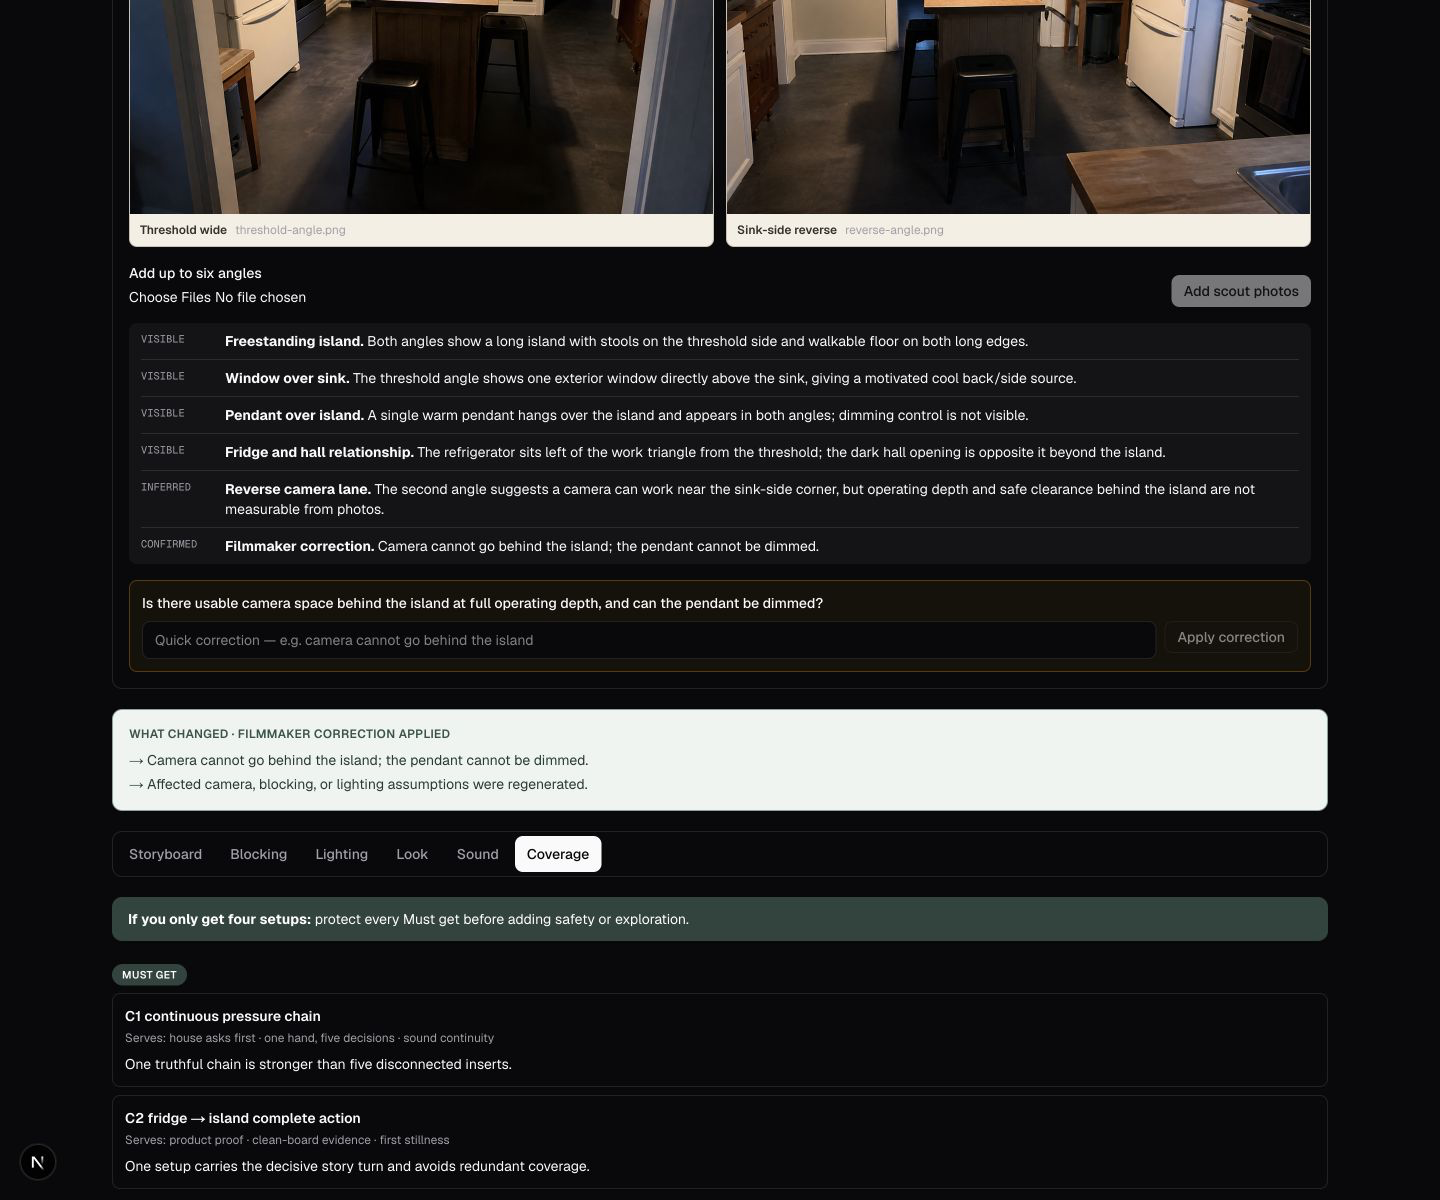
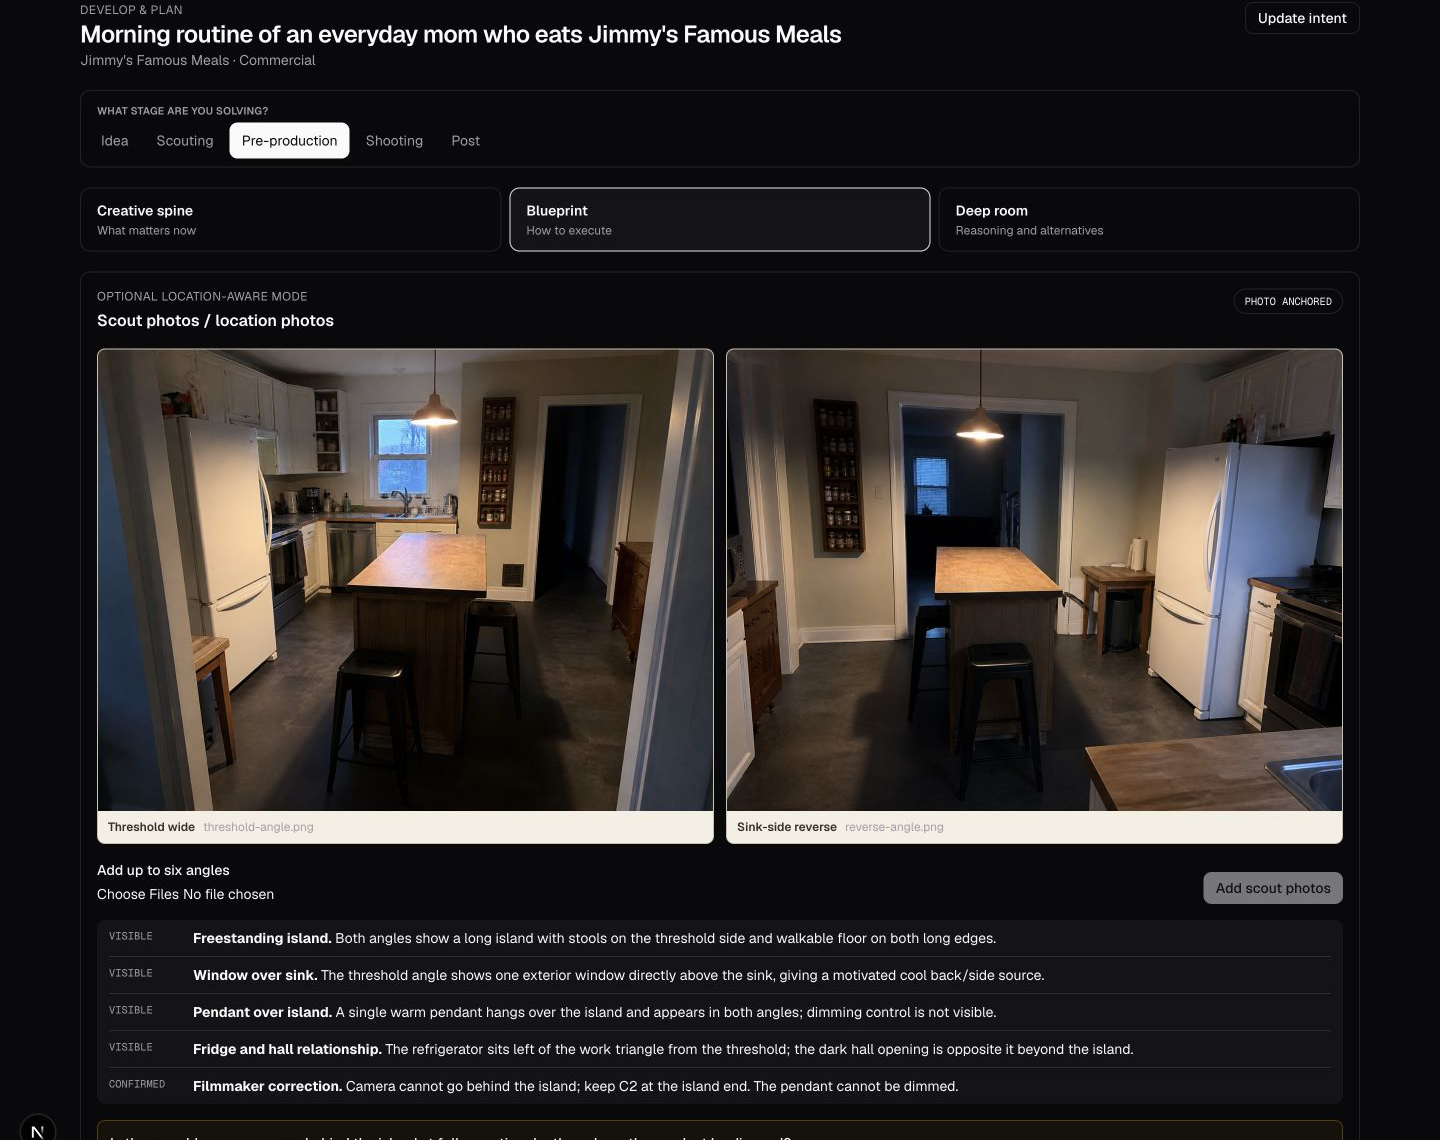
fix: address independent visual planning review

diff --git a/src/domain/creative/visual-planning.ts b/src/domain/creative/visual-planning.ts
@@ -315,37 +315,48 @@ export function isScoutKitchenCalibration(photos: readonly ScoutPhotoRef[]): boo
 }
 
 export function analyzeScoutPhotoSet(context: CreativePlanningContext): CreativePlanningContext {
-  const confirmed = context.corrections.map((correction) => ({
-    id: `confirmed_${correction.id}`,
-    state: "FILMMAKER_CONFIRMED_GEOMETRY" as const,
-    label: "Filmmaker correction",
-    detail: correction.statement,
-    evidencePhotoIds: [] as readonly string[],
-    affects: ["STORYBOARD", "BLOCKING", "LIGHTING"] as const,
-  }));
+  const replacedClaimIds = new Set(
+    context.corrections.flatMap((correction) =>
+      correction.replacesClaimId ? [correction.replacesClaimId] : [],
+    ),
+  );
+  const active = (claims: readonly SpatialClaim[]) =>
+    claims.filter((claim) => !replacedClaimIds.has(claim.id));
+  const confirmed = active(
+    context.corrections.map((correction) => ({
+      id: `confirmed_${correction.id}`,
+      state: "FILMMAKER_CONFIRMED_GEOMETRY" as const,
+      label: "Filmmaker correction",
+      detail: correction.statement,
+      evidencePhotoIds: [] as readonly string[],
+      affects: ["STORYBOARD", "BLOCKING", "LIGHTING"] as const,
+    })),
+  );
   if (!isScoutKitchenCalibration(context.scoutPhotos)) {
     return {
       ...context,
-      spatialClaims: context.scoutPhotos.length
-        ? [
-            {
-              id: "visible_scout_set_received",
-              state: "VISIBLE_FACT",
-              label: "Scout image set received",
-              detail: `${context.scoutPhotos.length} project-scoped scout ${context.scoutPhotos.length === 1 ? "image is" : "images are"} available. This deterministic pass has not interpreted physical layout, shared landmarks, dimensions, or operating clearance from their pixels.`,
-              evidencePhotoIds: context.scoutPhotos.map((photo) => photo.id),
-              affects: [] as const,
-            },
-            ...confirmed,
-          ]
-        : confirmed,
+      spatialClaims: active(
+        context.scoutPhotos.length
+          ? [
+              {
+                id: "visible_scout_set_received",
+                state: "VISIBLE_FACT",
+                label: "Scout image set received",
+                detail: `${context.scoutPhotos.length} project-scoped scout ${context.scoutPhotos.length === 1 ? "image is" : "images are"} available. This deterministic pass has not interpreted physical layout, shared landmarks, dimensions, or operating clearance from their pixels.`,
+                evidencePhotoIds: context.scoutPhotos.map((photo) => photo.id),
+                affects: [] as const,
+              },
+              ...confirmed,
+            ]
+          : confirmed,
+      ),
     };
   }
   const threshold = context.scoutPhotos.find((photo) => photo.contentHash === THRESHOLD_HASH)!;
   const reverse = context.scoutPhotos.find((photo) => photo.contentHash === REVERSE_HASH)!;
   return {
     ...context,
-    spatialClaims: [
+    spatialClaims: active([
       {
         id: "visible_island",
         state: "VISIBLE_FACT",
@@ -392,7 +403,7 @@ export function analyzeScoutPhotoSet(context: CreativePlanningContext): Creative
         affects: ["STORYBOARD", "BLOCKING"],
       },
       ...confirmed,
-    ],
+    ]),
   };
 }
 
@@ -831,8 +842,8 @@ function jimmyLighting(photoAnchored: boolean, context: CreativePlanningContext)
     title: photoAnchored ? "Use the visible window and pendant" : "Motivated source hypothesis",
     question: "Where are the meaningful sources, modifiers, and practicals?",
     zones: [
-      { id: "island", label: "ISLAND", x: 34, y: 31, width: 40, height: 27 },
-      { id: "sink_window", label: "SINK + WINDOW", x: 74, y: 7, width: 21, height: 20 },
+      { id: "island", label: "ISLAND", x: 34, y: 36, width: 40, height: 22 },
+      { id: "sink_window", label: "SINK + WINDOW", x: 74, y: 4, width: 21, height: 23 },
       { id: "fridge", label: "FRIDGE", x: 5, y: 8, width: 19, height: 26 },
     ],
     sources: [
@@ -910,6 +921,7 @@ const JIMMY_LOOK: LookPlan = {
 
 function jimmyLocation(context: CreativePlanningContext): LocationGrounding {
   const anchored = isScoutKitchenCalibration(context.scoutPhotos);
+  const hasCorrection = context.corrections.length > 0;
   return {
     mode: anchored
       ? "PHOTO_ANCHORED"
@@ -919,7 +931,9 @@ function jimmyLocation(context: CreativePlanningContext): LocationGrounding {
     photos: context.scoutPhotos,
     claims: context.spatialClaims,
     confirmationQuestion: anchored
-      ? "Is there usable camera space behind the island at full operating depth, and can the pendant be dimmed?"
+      ? hasCorrection
+        ? "Is there any remaining clearance, power, or safety constraint that would change C1, C2, or the lighting plan?"
+        : "Is there usable camera space behind the island at full operating depth, and can the pendant be dimmed?"
       : context.scoutPhotos.length
         ? "Which landmarks repeat across these angles, and which camera lanes or fixture controls can you confirm?"
         : "Can you add two location photos—one wide and one reverse—or confirm the fridge, counter, window, and camera lanes?",
@@ -1430,7 +1444,12 @@ export function evaluateVisualPlanQuality(plan: VisualPlan): VisualPlanQualityRe
     if (!plan.location.claims.some((claim) => claim.state === "VISIBLE_FACT")) {
       findings.push("Photo-anchored mode identifies no visible location facts.");
     }
-    if (!plan.location.claims.some((claim) => claim.state === "INFERRED_GEOMETRY")) {
+    if (
+      !plan.location.claims.some(
+        (claim) =>
+          claim.state === "INFERRED_GEOMETRY" || claim.state === "FILMMAKER_CONFIRMED_GEOMETRY",
+      )
+    ) {
       findings.push("Photo-anchored mode hides spatial uncertainty instead of representing it.");
     }
     if (!plan.location.confirmationQuestion) {

diff --git a/src/app/api/v1/projects/[projectId]/scout-photos/route.ts b/src/app/api/v1/projects/[projectId]/scout-photos/route.ts
@@ -37,17 +37,29 @@ export const POST = apiRoute<{ projectId: string }>(async ({ req, params, reques
   if (files.length === 0 || files.length > MAX_PHOTOS) {
     throw new HttpError(400, "VALIDATION_FAILED", "Choose between one and six scout photos.");
   }
+  if (
+    files.some(
+      (file) => !ALLOWED_TYPES.has(file.type) || file.size === 0 || file.size > MAX_PHOTO_BYTES,
+    )
+  ) {
+    throw new HttpError(
+      400,
+      "VALIDATION_FAILED",
+      "Scout photos must be PNG, JPEG, or WebP and no larger than 8 MB each.",
+    );
+  }
+  const prepared = await Promise.all(
+    files.map(async (file) => {
+      const bytes = new Uint8Array(await file.arrayBuffer());
+      return {
+        file,
+        bytes,
+        contentHash: `sha256:${createHash("sha256").update(bytes).digest("hex")}`,
+      };
+    }),
+  );
   const photos = [];
-  for (const [index, file] of files.entries()) {
-    if (!ALLOWED_TYPES.has(file.type) || file.size === 0 || file.size > MAX_PHOTO_BYTES) {
-      throw new HttpError(
-        400,
-        "VALIDATION_FAILED",
-        "Scout photos must be PNG, JPEG, or WebP and no larger than 8 MB each.",
-      );
-    }
-    const bytes = new Uint8Array(await file.arrayBuffer());
-    const contentHash = `sha256:${createHash("sha256").update(bytes).digest("hex")}`;
+  for (const [index, { file, bytes, contentHash }] of prepared.entries()) {
     const imported = await importProjectSource(
       { ...context, imports: context.sourceImports, storage: context.sourceStorage },
       {

diff --git a/src/app/api/v1/creative.api.test.ts b/src/app/api/v1/creative.api.test.ts
@@ -237,6 +237,32 @@ describe("Analyze Project (real HTTP + PostgreSQL)", () => {
     expect(await prisma.mediaAsset.count()).toBe(0);
   });
 
+  it("rejects an invalid scout batch before importing any earlier valid file", async () => {
+    const projectId = await makeProject();
+    await call(analyzeProject, {
+      method: "POST",
+      principal: ACTOR,
+      params: { projectId },
+      json: brief,
+    });
+    const form = new FormData();
+    form.append("files", new File([new Uint8Array([1, 2, 3])], "valid.png", { type: "image/png" }));
+    form.append(
+      "files",
+      new File([new Uint8Array([4, 5, 6])], "invalid.txt", { type: "text/plain" }),
+    );
+    const uploaded = await call(uploadScoutPhotos, {
+      method: "POST",
+      principal: ACTOR,
+      params: { projectId },
+      body: form,
+      headers: { "content-length": "4096" },
+    });
+    expect(uploaded.status).toBe(400);
+    expect(await prisma.sourceImport.count()).toBe(0);
+    expect(await prisma.mediaAsset.count()).toBe(0);
+  });
+
   it("fails closed for an unsupported deterministic documentary draft", async () => {
     const projectId = await makeProject();
     const res = await call(analyzeProject, {

diff --git a/evaluations/visual-planning.test.ts b/evaluations/visual-planning.test.ts
@@ -164,6 +164,9 @@ describe("frame-accurate visual planning release gate", () => {
         detail: scoutFixture.calibrationCorrection,
       }),
     );
+    expect(output.location.claims).not.toContainEqual(
+      expect.objectContaining({ id: "inferred_camera_lane" }),
+    );
     expect(output.blocking.cameras.find((camera) => camera.id === "c2")?.use).toMatch(/rejected/i);
     expect(output.lighting.sources.find((source) => source.id === "pendant")).toMatchObject({
       control: "CONFIRMED",
@@ -171,6 +174,8 @@ describe("frame-accurate visual planning release gate", () => {
     });
     expect(output.delta.trigger).toBe("Filmmaker correction applied");
     expect(output.delta.changed).toContain(scoutFixture.calibrationCorrection);
+    expect(output.location.confirmationQuestion).toMatch(/remaining clearance, power, or safety/i);
+    expect(evaluateVisualPlanQuality(output)).toEqual({ passed: true, findings: [] });
   });
 
   it("prioritizes must-get coverage and explicitly permits restraint", () => {

diff --git a/src/ui/creative/blueprint-view.test.tsx b/src/ui/creative/blueprint-view.test.tsx
@@ -57,6 +57,13 @@ describe("BlueprintView", () => {
     await user.click(screen.getByRole("button", { name: "Lighting" }));
     expect(screen.getByText(/where are the meaningful sources/i)).toBeInTheDocument();
     expect(screen.queryByText(/where are the people and cameras/i)).not.toBeInTheDocument();
+    const diagram = screen.getByRole("img", { name: /motivated source hypothesis/i });
+    const labels = [...diagram.querySelectorAll("text")];
+    const zoneLabel = labels.find((label) => label.textContent === "SINK + WINDOW")!;
+    const sourceLabel = labels.find((label) => label.textContent === "WINDOW")!;
+    expect(
+      Number(zoneLabel.getAttribute("y")) - Number(sourceLabel.getAttribute("y")),
+    ).toBeGreaterThan(4);
   });
 
   it("keeps alternatives and craft reasoning in the optional Deep room", async () => {

diff --git a/src/ui/creative/visual-plan.tsx b/src/ui/creative/visual-plan.tsx
@@ -533,7 +533,7 @@ function LightingDiagram({ plan }: { plan: LightingPlan }) {
             />
             <text
               x={zone.x + 1.5}
-              y={zone.y + 3.5}
+              y={zone.y + zone.height - 2}
               textAnchor="start"
               fontSize="2.2"
               fill="#4d4942"
